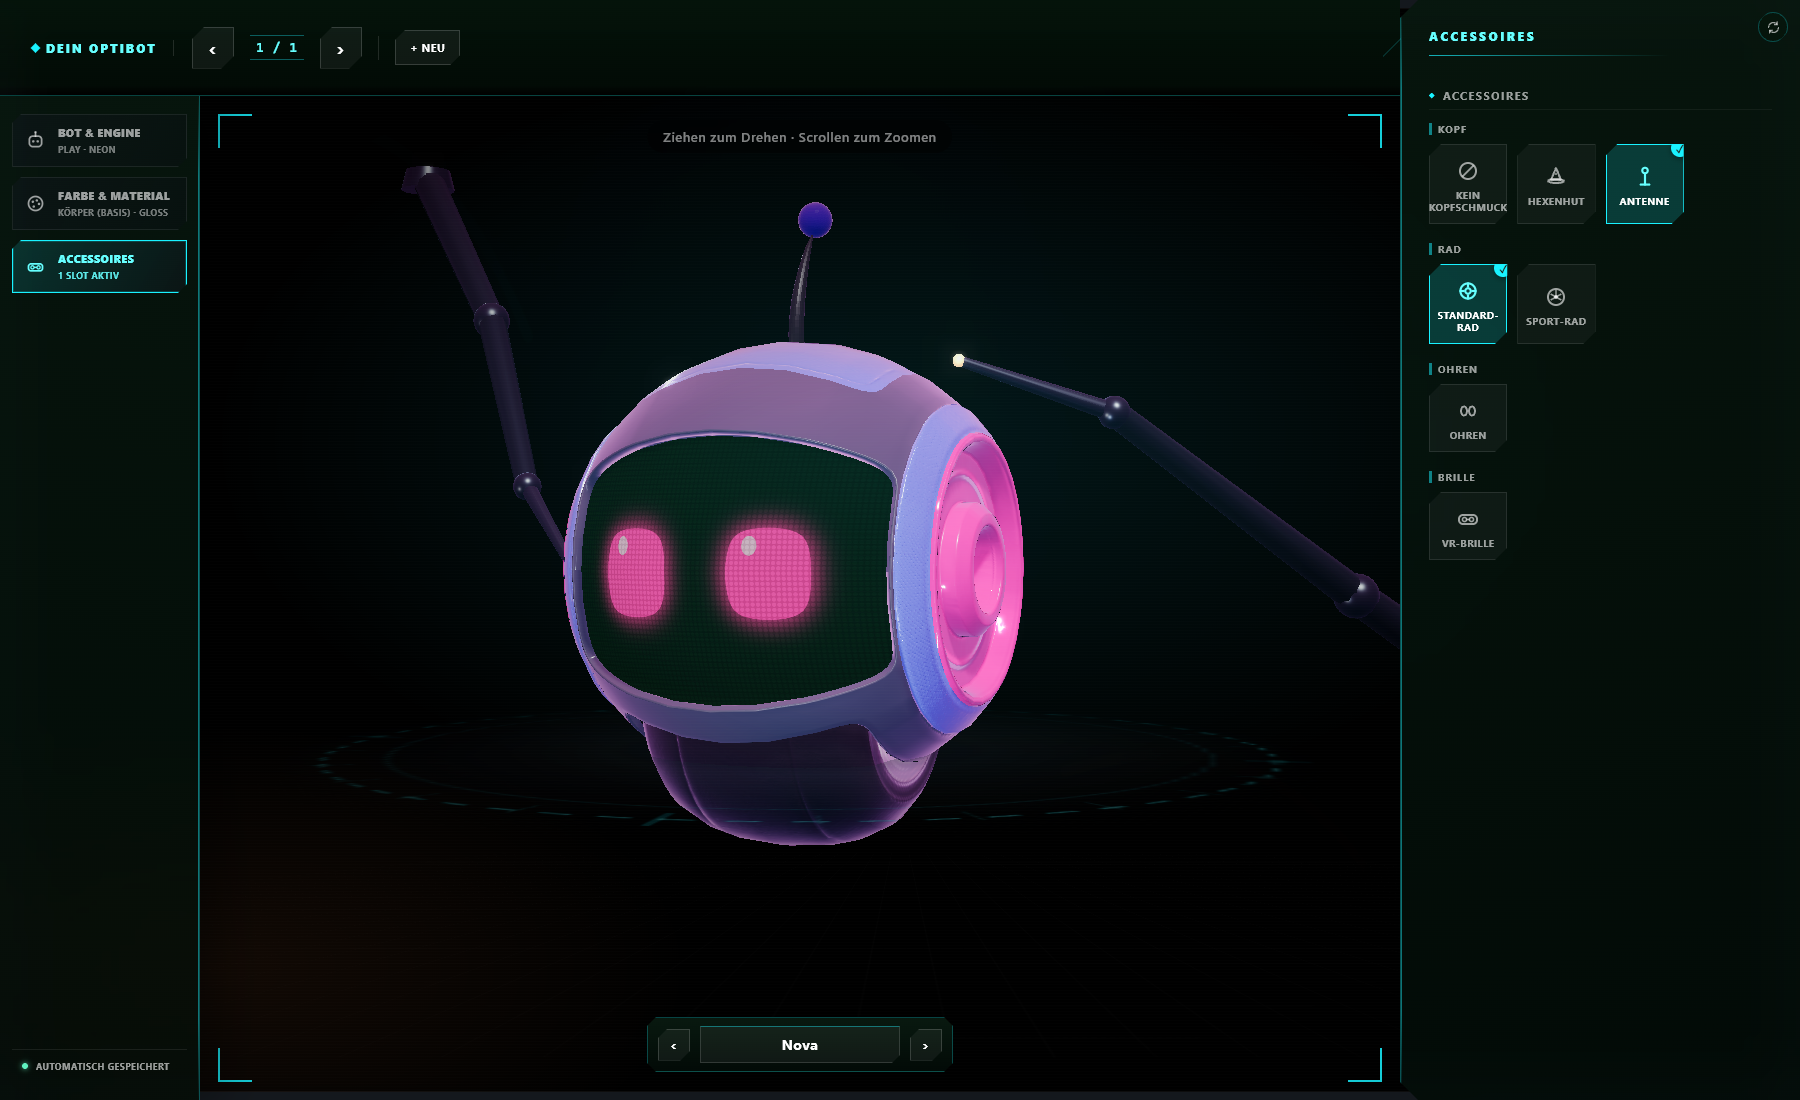
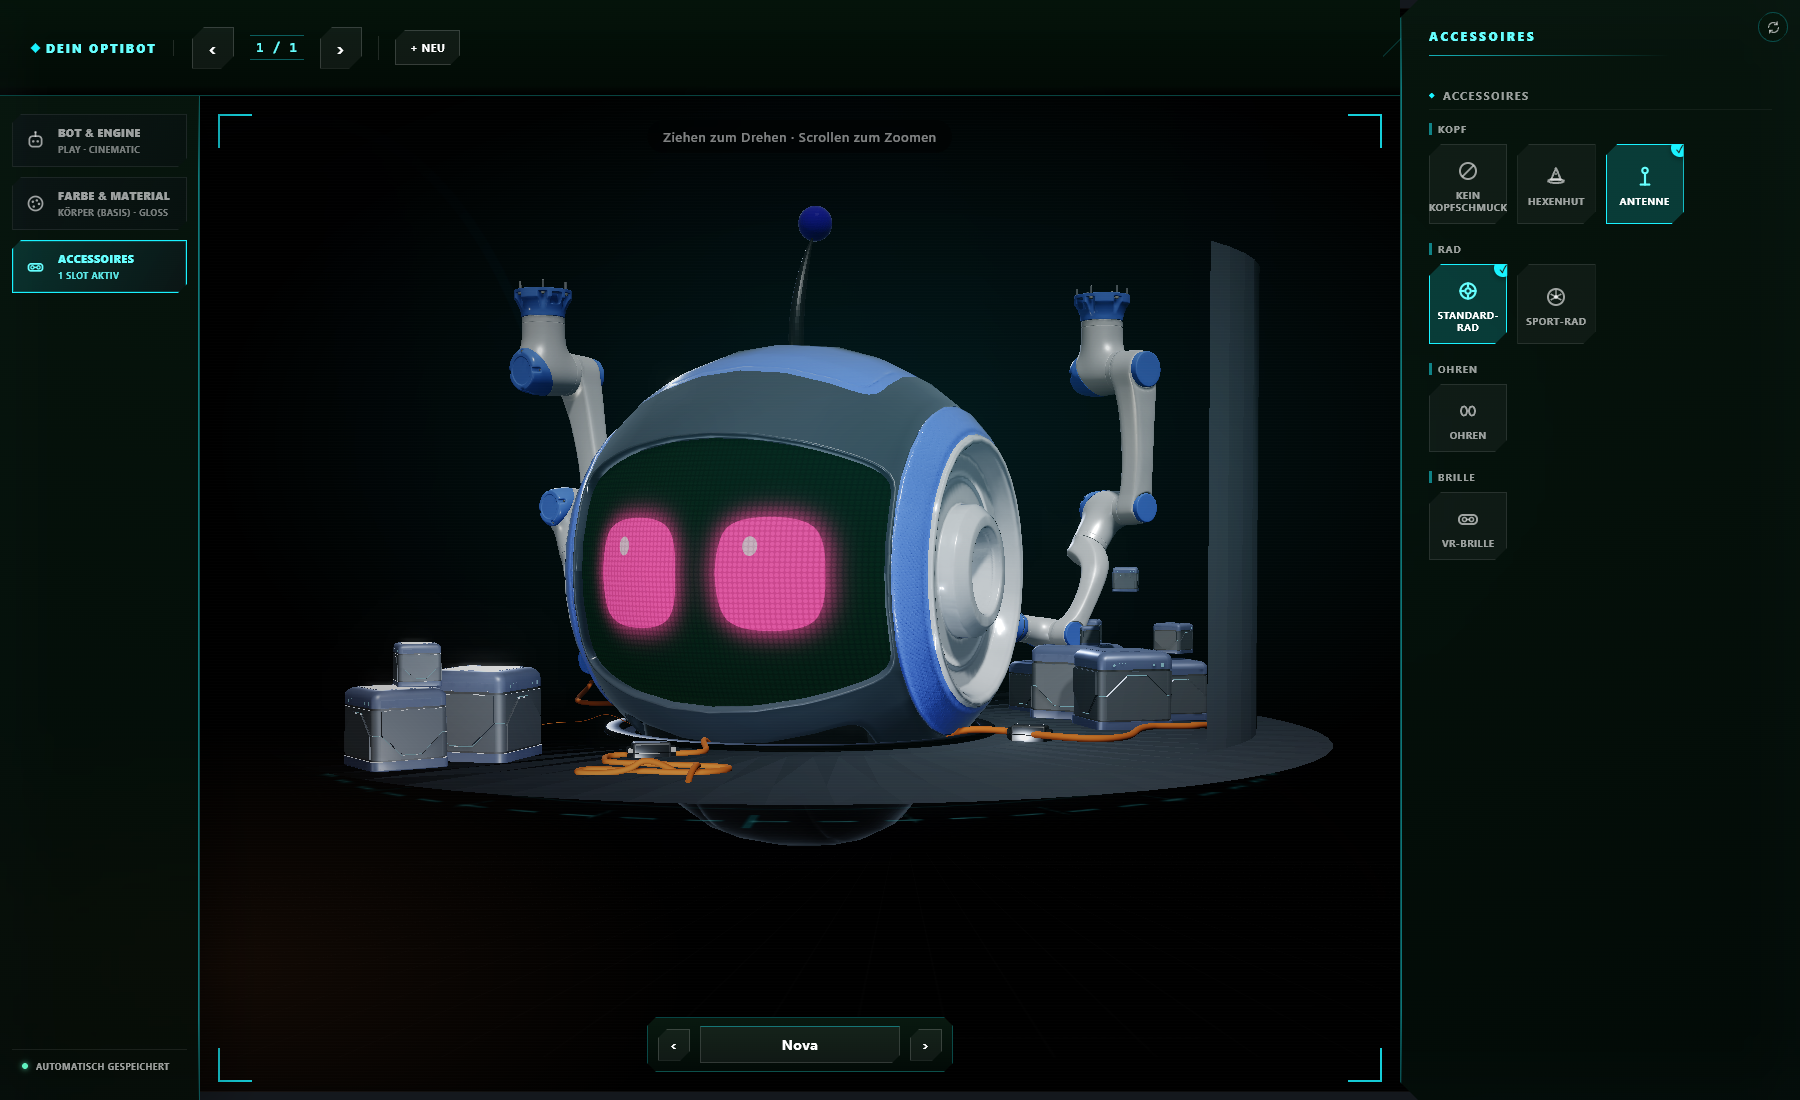
v1.0.6: real 3D Studio workshop scene, Cinematic lighting retune, base-texture-wipe fix
Mirrors main repo commit 36b6ddd.

diff --git a/anleitung.html b/anleitung.html
@@ -425,7 +425,7 @@
 
         <section class="doc-card reveal" id="s-studio">
             <h2><span class="icon-chip" style="--chip-bg:rgba(176,107,255,0.15); --chip-fg:#c19bff; --chip-ring:rgba(176,107,255,0.25)"><svg viewBox="0 0 24 24" fill="none"><path d="M12 3a9 9 0 100 18c1.1 0 2-.9 2-2 0-.5-.2-1-.5-1.3-.3-.4-.5-.8-.5-1.2 0-.9.7-1.5 1.5-1.5H16a4 4 0 004-4c0-4.4-3.6-8-8-8z" stroke="currentColor" stroke-width="1.7" stroke-linejoin="round"/><circle cx="8" cy="10.5" r="1.1" fill="currentColor"/><circle cx="11.5" cy="7.5" r="1.1" fill="currentColor"/><circle cx="15.5" cy="9.5" r="1.1" fill="currentColor"/></svg></span>OptiBot Studio</h2>
-            <p>Das Studio ist deine Tuning-Werkstatt. Öffne es per <b>Doppelklick auf das Taskleisten-Icon</b> oder über das Menü („OptiBot Studio öffnen").</p>
+            <p>Das Studio ist deine Tuning-Werkstatt — eine echte kleine Werkhalle mit Service-Armen, Werkzeugregal und Kisten drumherum, kein flaches Hintergrundbild. Öffne es per <b>Doppelklick auf das Taskleisten-Icon</b> oder über das Menü („OptiBot Studio öffnen").</p>
             <ul>
                 <li><b>Kategorie-Leiste:</b> Die drei Karten links wechseln zwischen Bot &amp; Engine, Farbe &amp; Material und Accessoires — jede zeigt direkt darunter, was gerade eingestellt ist, wie bei einem echten Charakter-Editor.</li>
                 <li><b>Teile lackieren:</b> Klicke ein Körperteil direkt am 3D-Modell an (oder wähle es im Farbe-Tab) und such dir eine Farbe aus — Änderungen erscheinen sofort auf dem echten Bot.</li>

diff --git a/index.html b/index.html
@@ -83,7 +83,7 @@
             <p>Lade OptiBot kostenlos für Windows 10 &amp; 11 herunter.</p>
             <a href="anleitung.html" class="link-subtle">Zur Anleitung &rarr;</a>
             <a href="OptiBot_Setup.exe" class="btn-large" download><svg viewBox="0 0 24 24" fill="none" class="btn-icon"><path d="M12 4V15M12 15L8 11M12 15L16 11" stroke="currentColor" stroke-width="2" stroke-linecap="round" stroke-linejoin="round"/><path d="M5 18H19" stroke="currentColor" stroke-width="2" stroke-linecap="round"/></svg>OptiBot herunterladen</a>
-            <div class="download-meta">Version 1.0 &middot; ca. 8&nbsp;MB &middot; Windows 10/11 (64&#8209;bit)</div>
+            <div class="download-meta">Version 1.0 &middot; ca. 30&nbsp;MB &middot; Windows 10/11 (64&#8209;bit)</div>
         </section>
     </main>
 